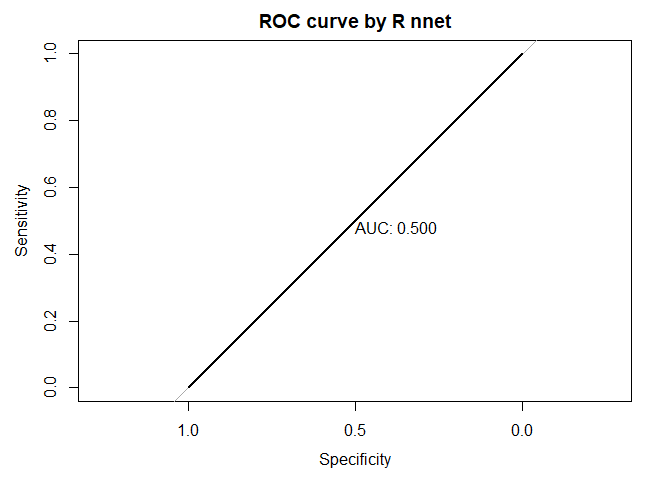
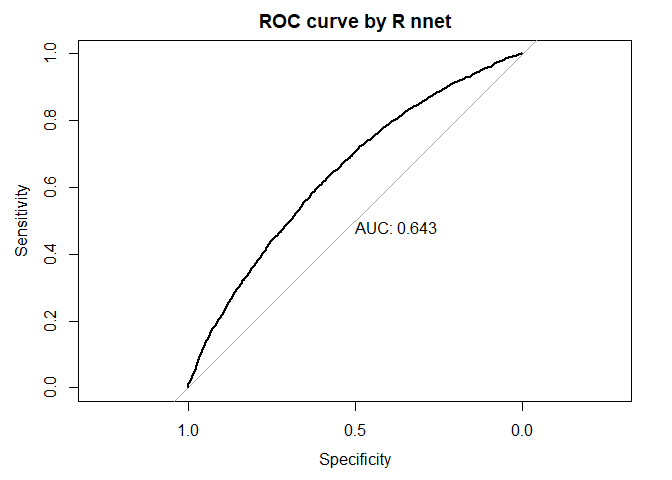
Improved README to include the bench mark comparisons for prediction task.

diff --git a/README.md b/README.md
@@ -88,6 +88,7 @@ o <- 1 # number of output nodes
 learning_rate <- 0.1 # The learning rate of the algorithm
 activation_func <- "sigmoid" # the activation function
 nn_model <- back_propagation_training(i, h, o, learning_rate, activation_func, data)
+nn_model_nnet <- nnet::nnet(X,Y,size=h, trace=FALSE)
 ```
 
 # Summarizing the results of nn_model.
@@ -106,8 +107,8 @@ plot(nn_model)
     #> Call:
     #> roc.default(response = data[, ncol(data)], predictor = nn_R_pred,     plot = TRUE, print.auc = TRUE, main = "ROC curve by R nnet")
     #> 
-    #> Data: nn_R_pred in 4956 controls (data[, ncol(data)] 0) < 5044 cases (data[, ncol(data)] 1).
-    #> Area under the curve: 0.5001
+    #> Data: nn_R_pred in 4983 controls (data[, ncol(data)] 0) < 5017 cases (data[, ncol(data)] 1).
+    #> Area under the curve: 0.6431
     summary(nn_model)
     #> $num_nodes
     #>  # of input nodes # of hidden nodes # of output nodes 
@@ -121,42 +122,57 @@ plot(nn_model)
     #> 
     #> $weight_bias_matrices
     #> $weight_bias_matrices$weight_input_hidden
-    #>                X1          X2
-    #> [1,] -0.009936593 -0.06894385
-    #> [2,] -0.009936593 -0.06894385
-    #> [3,] -0.009936593 -0.06894385
-    #> [4,] -0.009936593 -0.06894385
+    #>               X1        X2
+    #> [1,] -0.02915079 -0.071855
+    #> [2,] -0.02915079 -0.071855
+    #> [3,] -0.02915079 -0.071855
+    #> [4,] -0.02915079 -0.071855
     #> 
     #> $weight_bias_matrices$weight_hidden_output
-    #>             [,1]        [,2]        [,3]        [,4]
-    #> [1,] 0.005291117 0.005291117 0.005291117 0.005291117
+    #>           [,1]      [,2]      [,3]      [,4]
+    #> [1,] 0.0156597 0.0156597 0.0156597 0.0156597
     #> 
     #> $weight_bias_matrices$bias_hidden
     #>             [,1]
-    #> [1,] 0.009333884
-    #> [2,] 0.009333884
-    #> [3,] 0.009333884
-    #> [4,] 0.009333884
+    #> [1,] 0.009039822
+    #> [2,] 0.009039822
+    #> [3,] 0.009039822
+    #> [4,] 0.009039822
     #> 
     #> $weight_bias_matrices$bias_output
-    #>           [,1]
-    #> [1,] 0.1198956
-    print(nn_model)
+    #>            [,1]
+    #> [1,] 0.02453233
+    print(nn_model) # This will print the benchmark comparison for training part.
     #> Warning: Some expressions had a GC in every iteration; so filtering is disabled.
     #> # A tibble: 2 x 13
     #>   expression   min median `itr/sec` mem_alloc gc/se~1 n_itr  n_gc total~2 result
     #>   <bch:expr> <dbl>  <dbl>     <dbl>     <dbl>   <dbl> <int> <dbl> <bch:t> <list>
-    #> 1 BackPropNN  30.0   26.2      1         1        Inf     2    27   959ms <NULL>
-    #> 2 R nnet       1      1        9.16      6.82     NaN    14     0   733ms <NULL>
+    #> 1 BackPropNN  24.7   20.2      1         1        Inf     1    14   518ms <NULL>
+    #> 2 R nnet       1      1        3.79      6.82     NaN     7     0   958ms <NULL>
     #> # ... with 3 more variables: memory <list>, time <list>, gc <list>, and
     #> #   abbreviated variable names 1: `gc/sec`, 2: total_time
     #> $mse_comparison
     #>     MSE by R nnet MSE by BackPropNN 
-    #>         0.2357798         0.2506330
+    #>         0.2345249         0.2500169
+
+    # Running the benchmark comparison for predicting part.
+    bench::mark("BackPropNN"=feed_forward(data, nn_model),
+                "R nnet" = as.numeric(stats::predict(nn_model_nnet,X, type="raw")),
+                        relative = TRUE, check = FALSE)
+    #> Warning: Some expressions had a GC in every iteration; so filtering is disabled.
+    #> # A tibble: 2 x 6
+    #>   expression   min median `itr/sec` mem_alloc `gc/sec`
+    #>   <bch:expr> <dbl>  <dbl>     <dbl>     <dbl>    <dbl>
+    #> 1 BackPropNN  780.   725.        1       1        1.28
+    #> 2 R nnet        1      1       629.      3.34     1
 
 We see that a better AUC score is achieved by the BackPropNN package
 than R nnet, however a better mse is achieved by R nnet (achieving
 slightly lower value than BackPropNN).
+
+Also, BackPropNN (writing in R) consistently perform worse than R nnet
+package in terms of computational speed for both training and prediction
+tasks.
 
 # Now, let’s check if the Rcpp version of BackPropNN package helps to improve the computational speed.
 
@@ -178,11 +194,11 @@ bench::mark("Original"=back_propagation_training(i, h, o, learning_rate,
                     relative = TRUE, check = FALSE)
 #> Warning: Some expressions had a GC in every iteration; so filtering is disabled.
 #> # A tibble: 3 x 6
-#>   expression    min median `itr/sec` mem_alloc `gc/sec`
-#>   <bch:expr>  <dbl>  <dbl>     <dbl>     <dbl>    <dbl>
-#> 1 Original   125.   123.        1         1         Inf
-#> 2 R nnet       4.25   6.70      5.62      6.82      NaN
-#> 3 Rcpp         1      1       116.        2.41      Inf
+#>   expression   min median `itr/sec` mem_alloc `gc/sec`
+#>   <bch:expr> <dbl>  <dbl>     <dbl>     <dbl>    <dbl>
+#> 1 Original   93.9    72.0      1         1         Inf
+#> 2 R nnet      3.21   15.6      2.66      6.82      NaN
+#> 3 Rcpp        1       1       60.9       2.41      NaN
 
 # Running the benchmark comparison for predicting part.
 bench::mark("Original"=feed_forward(data, nn_model_original),
@@ -191,14 +207,15 @@ bench::mark("Original"=feed_forward(data, nn_model_original),
                     relative = TRUE, check = FALSE)
 #> Warning: Some expressions had a GC in every iteration; so filtering is disabled.
 #> # A tibble: 3 x 6
-#>   expression    min median `itr/sec` mem_alloc `gc/sec`
-#>   <bch:expr>  <dbl>  <dbl>     <dbl>     <dbl>    <dbl>
-#> 1 Original   774.   699.          1       2.77      Inf
-#> 2 R nnet       1      1         530.      9.23      Inf
-#> 3 Rcpp         2.65   2.58      252.      1         NaN
+#>   expression     min median `itr/sec` mem_alloc `gc/sec`
+#>   <bch:expr>   <dbl>  <dbl>     <dbl>     <dbl>    <dbl>
+#> 1 Original   1383.   935.          1       2.77      Inf
+#> 2 R nnet        1      1         729.      9.23      Inf
+#> 3 Rcpp          2.71   2.62      304.      1         NaN
 ```
 
 We notice that for the training part, Rcpp version achieves best
 computational speed, however for the predicting part, R nnet package
-takes the lead (performing just slightly better than Rcpp). The Original
-package written in R lags behind in both training and predicting tasks.
+still takes the lead (performing just slightly better than Rcpp). The
+original package written in R lags behind in both training and
+prediction tasks.
